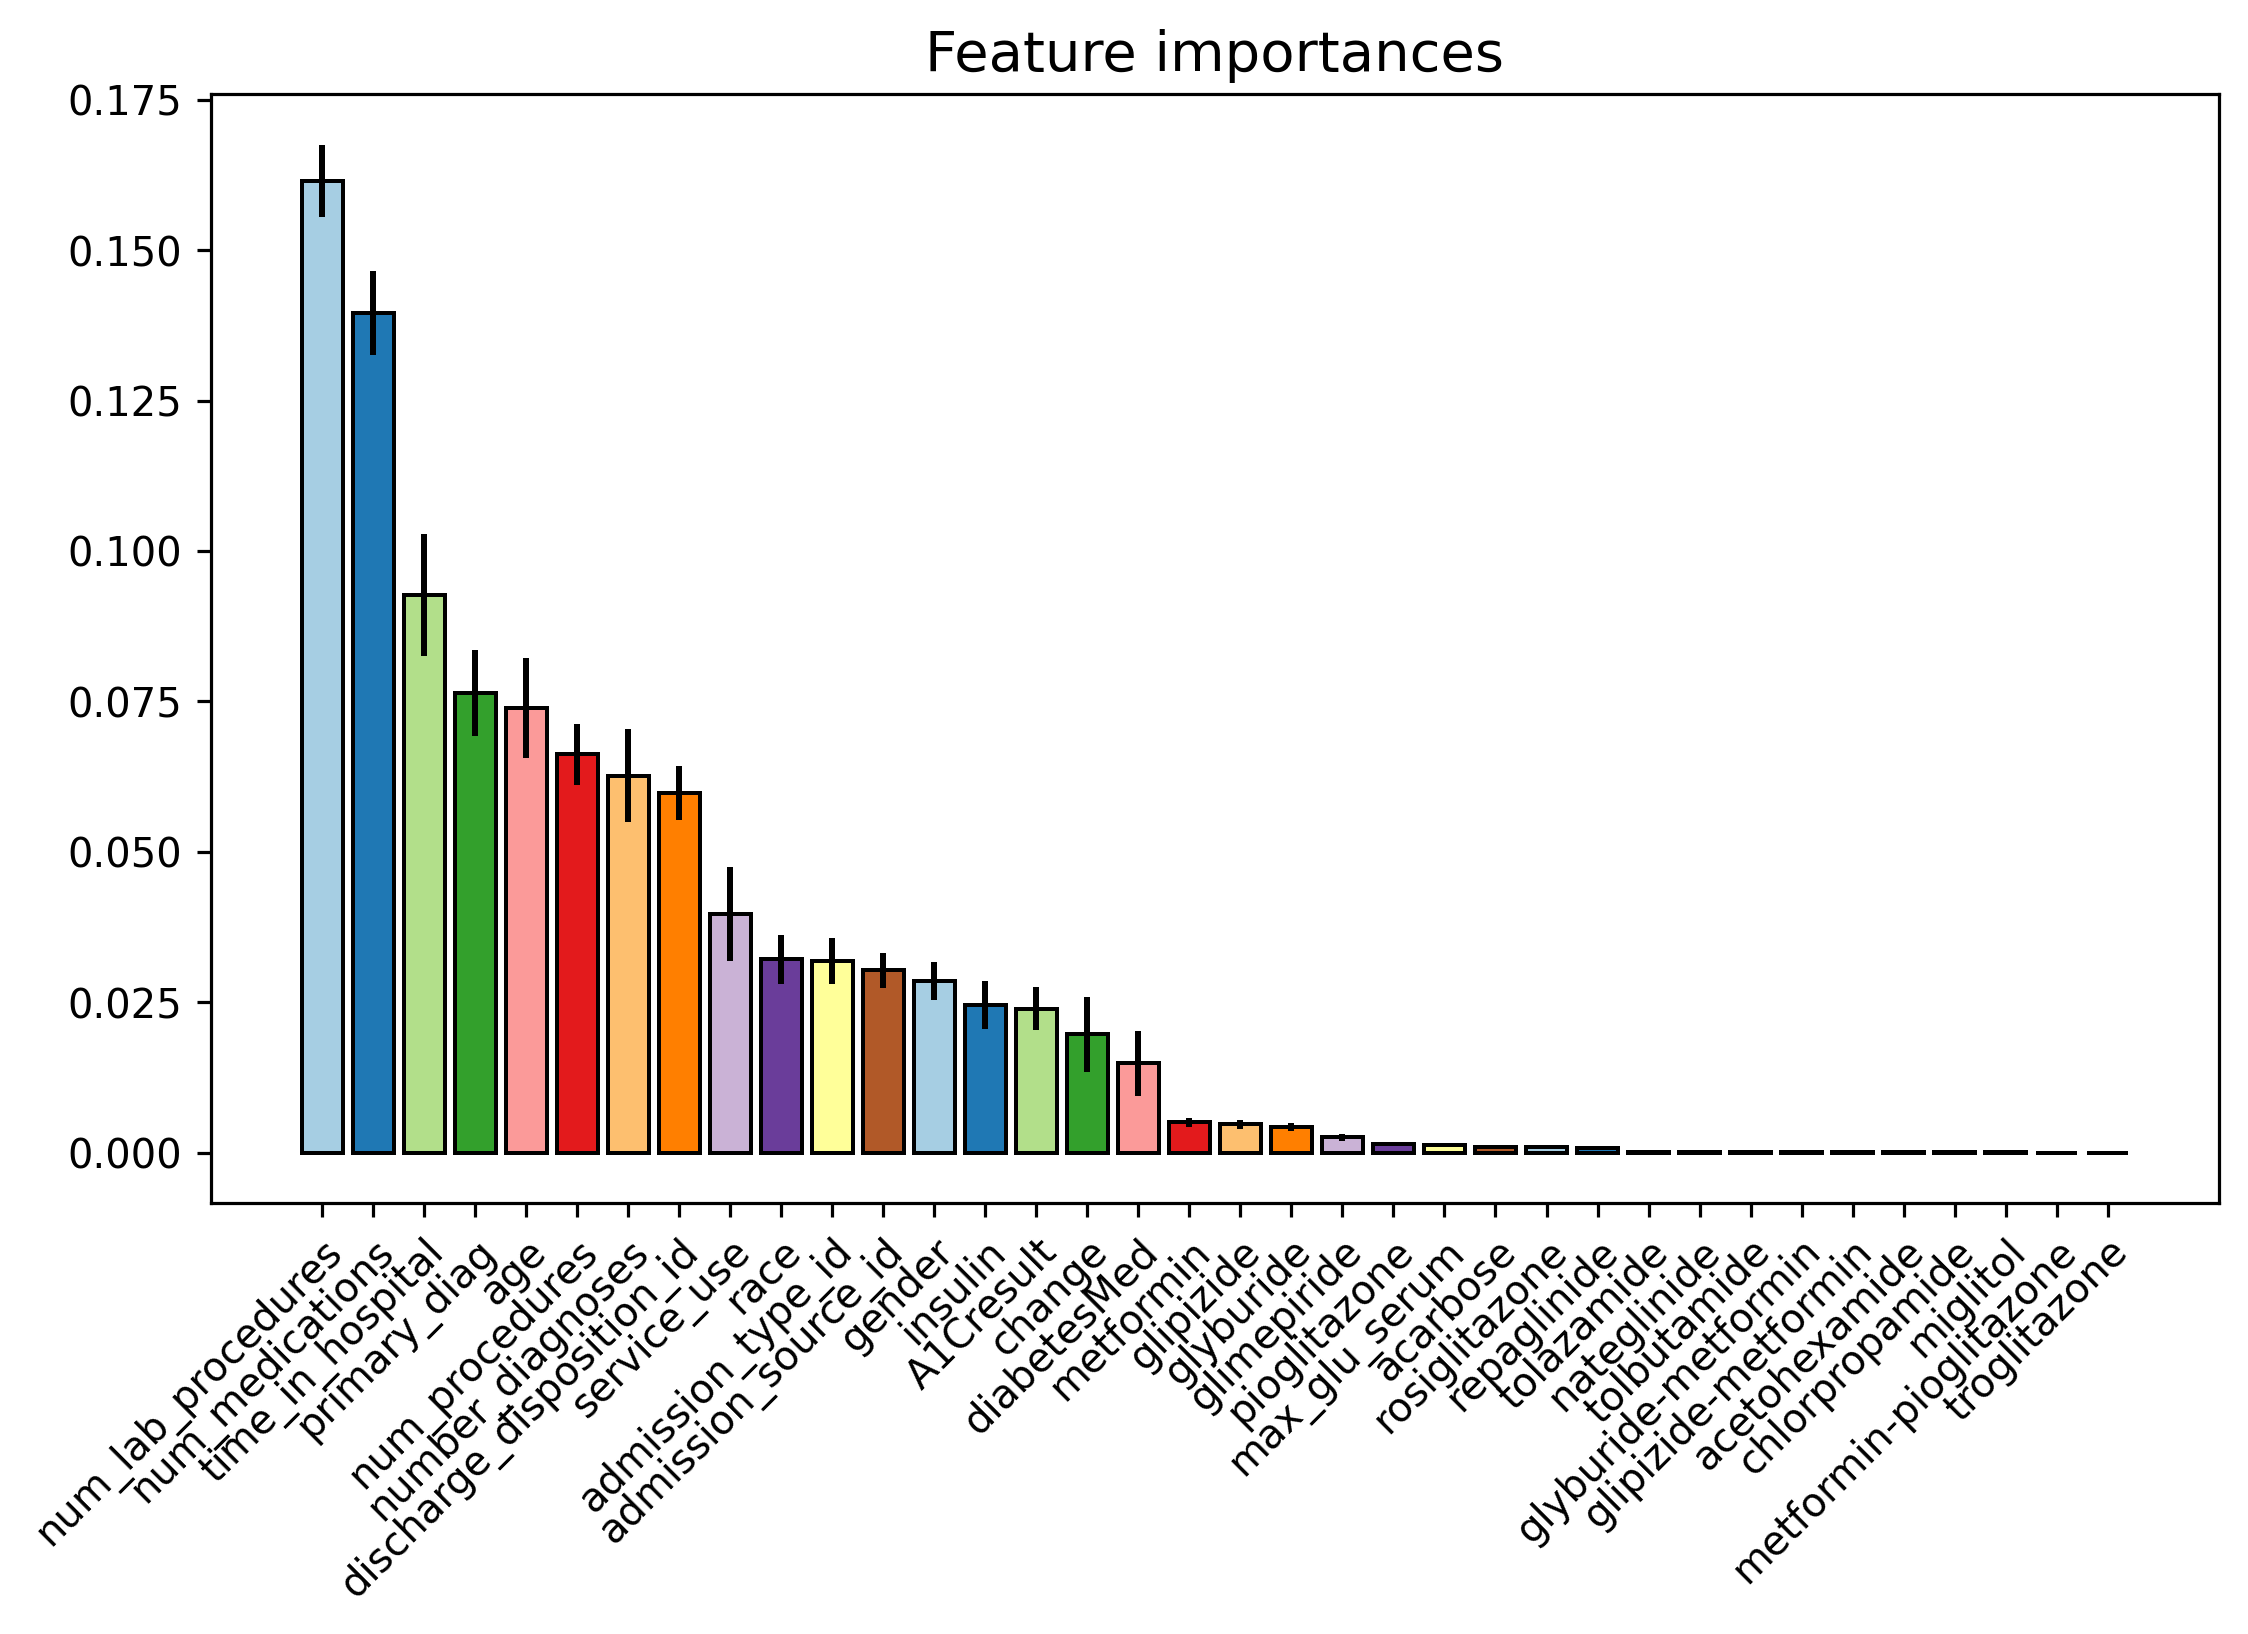
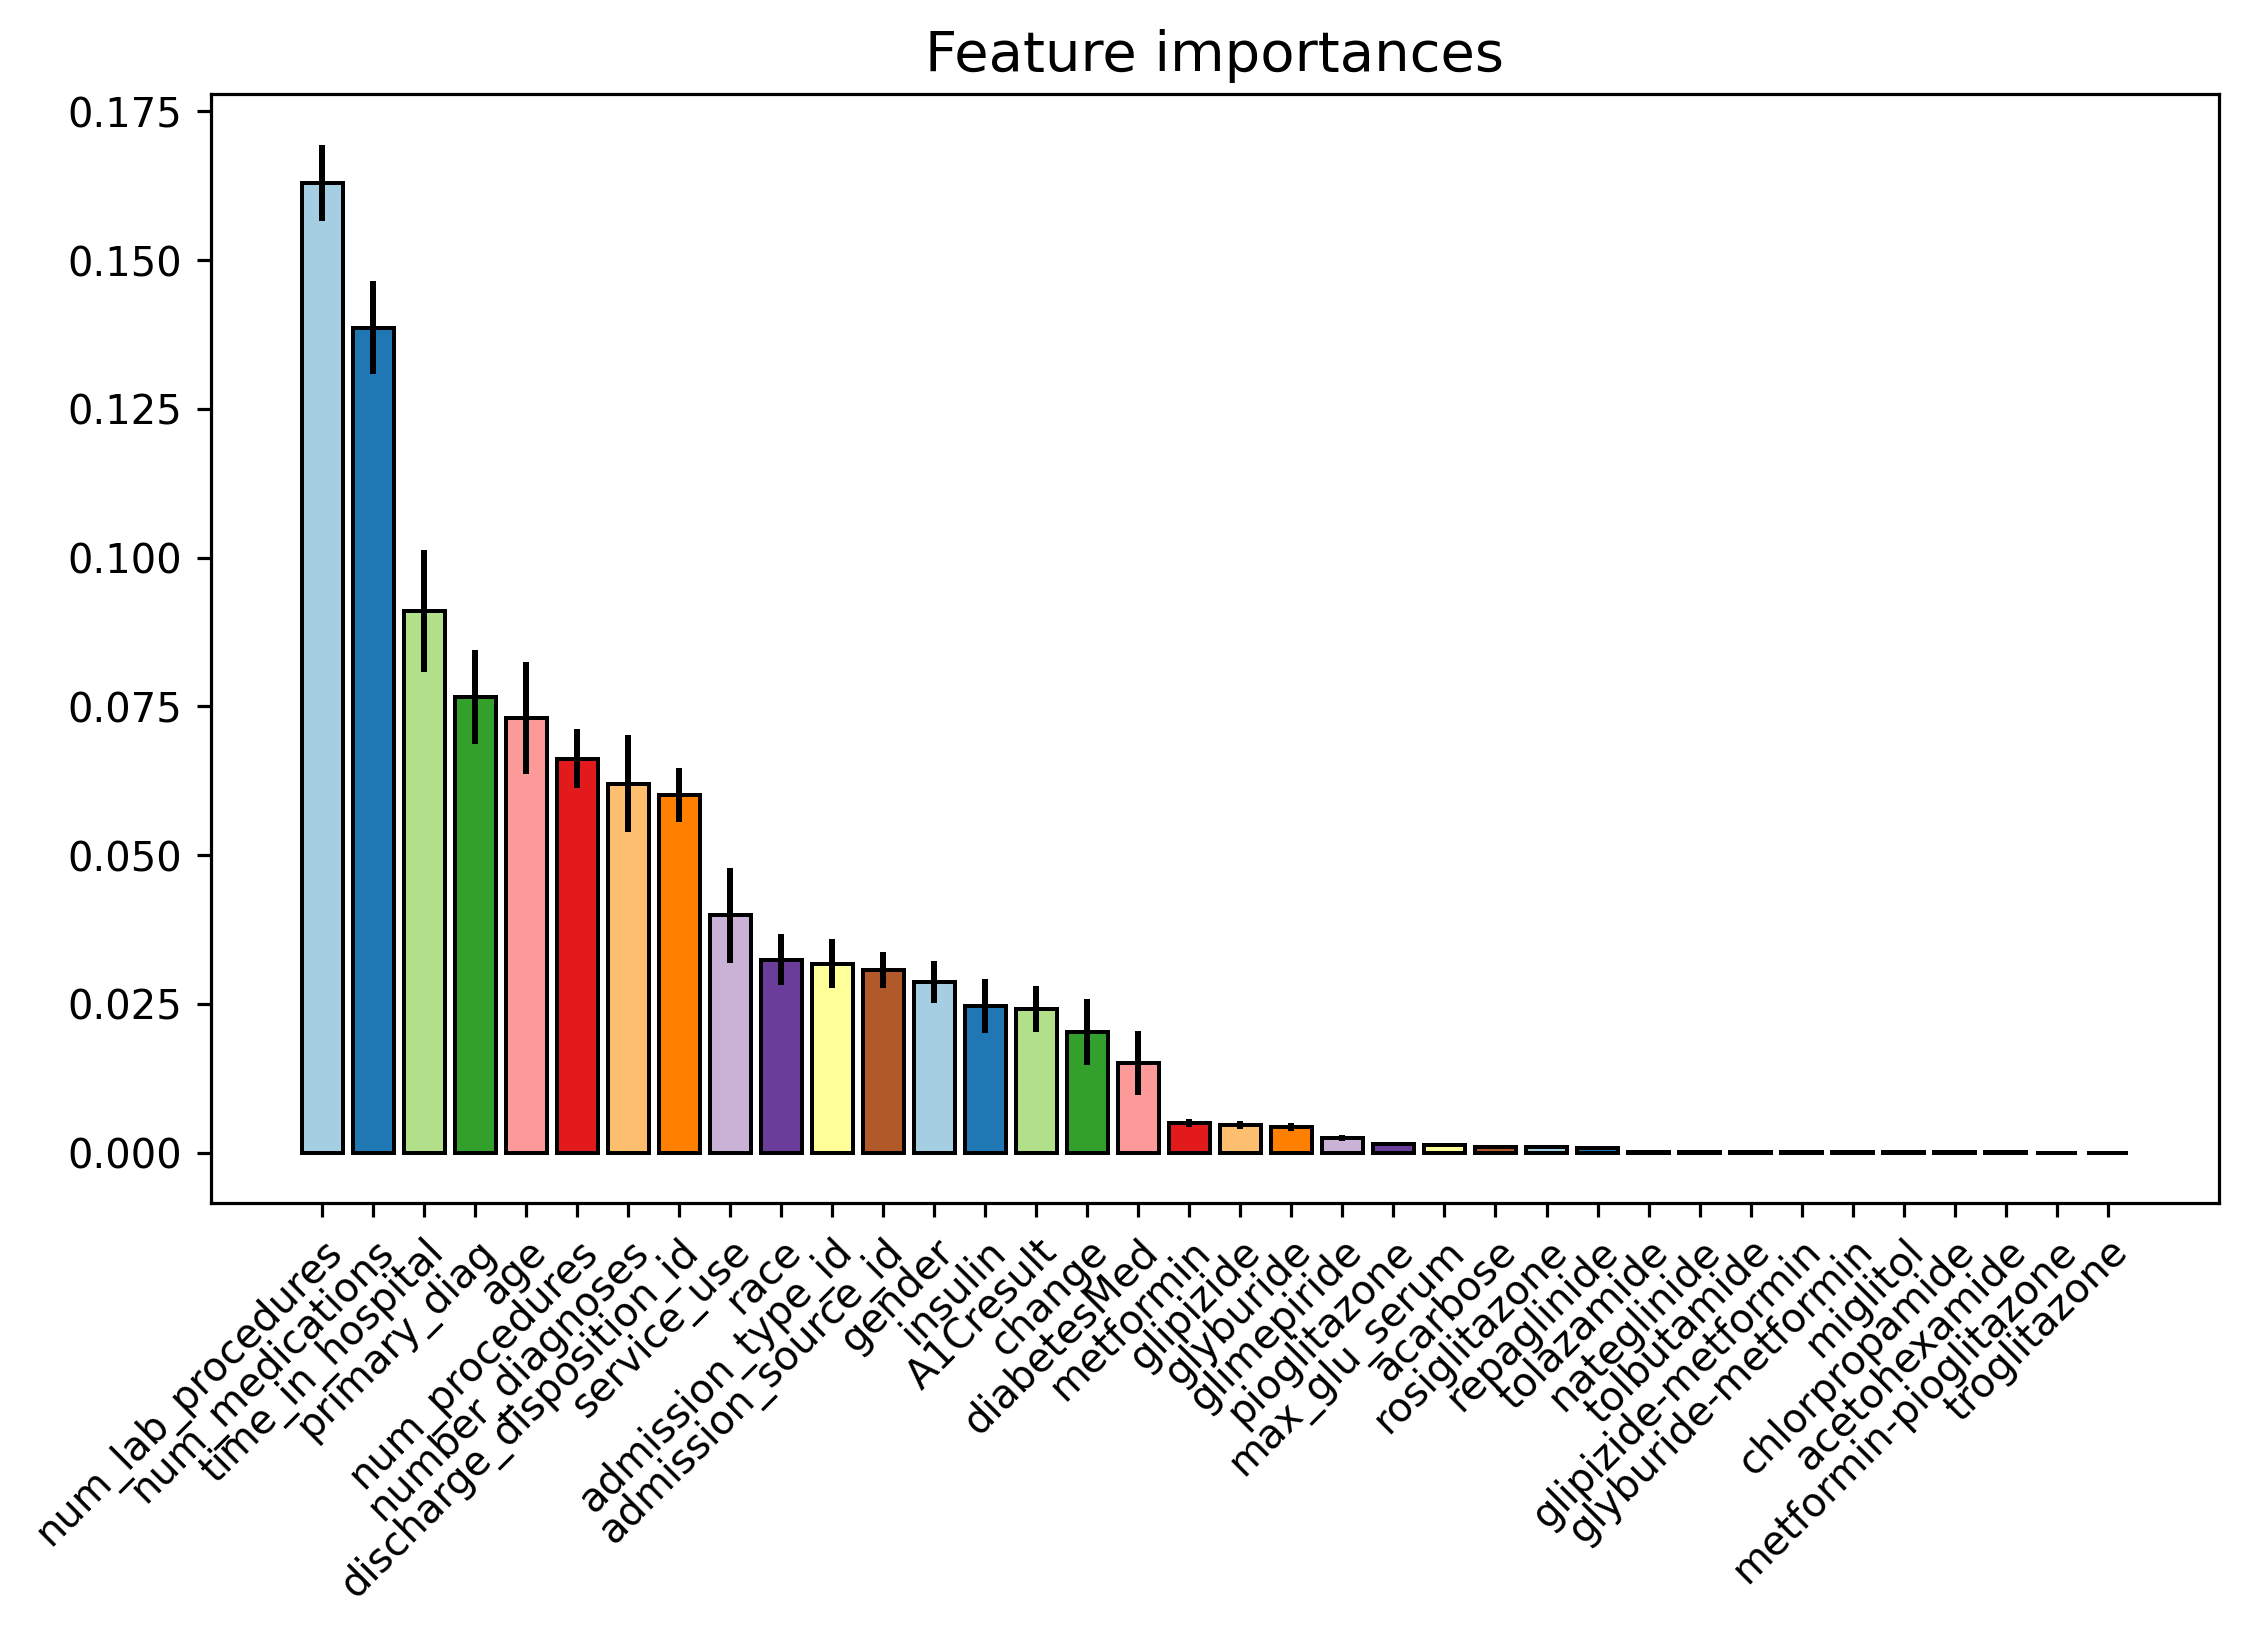
Grid search results: max_depth=40, n_estimators=500, random_state=42

diff --git a/grid_search.py b/grid_search.py
@@ -3,6 +3,7 @@
 import os
 from pathlib import Path
 import pandas as pd
+import numpy as np
 from sklearn.ensemble import RandomForestClassifier
 from sklearn.model_selection import train_test_split, GridSearchCV
 
@@ -14,7 +15,9 @@ X = df.drop('readmitted', axis=1)
 y = df.loc[:, 'readmitted']
 X_train, X_test, y_train, y_test = train_test_split(X, y, test_size=0.3, random_state=42)
 
-param_grid = {'max_depth': range(40, 47, 2), 'n_estimators': range(260, 321, 20)}
+param_grid = {'max_depth': np.arange(20, 81, 20),
+              'n_estimators': np.arange(400, 551, 50),
+              'random_state': [42]}
 
 rf_clf = RandomForestClassifier()
 

diff --git a/modeling.py b/modeling.py
@@ -22,7 +22,8 @@ X_train, X_test, y_train, y_test = train_test_split(X, y, test_size=0.3, random_
 
 model_dict = {'Logistic regression': LogisticRegression(n_jobs=-1, solver='newton-cg'),
               'Decision tree classifier': DecisionTreeClassifier(max_depth=12, random_state=42),
-              'Random forest classifier': RandomForestClassifier(n_jobs=-1, random_state=42)}
+              'Random forest classifier': RandomForestClassifier(n_jobs=-1, random_state=42,
+                                                                 max_depth=40, n_estimators=500)}
 
 t0 = time()
 with open(work_dir / 'stats_output.txt', 'w') as f:

diff --git a/feature_importances_plot.py b/feature_importances_plot.py
@@ -16,7 +16,7 @@ X = df.drop('readmitted', axis=1)
 y = df.loc[:, 'readmitted']
 X_train, X_test, y_train, y_test = train_test_split(X, y, test_size=0.3, random_state=42)
 
-rf_clf = RandomForestClassifier(n_jobs=-1, random_state=42)
+rf_clf = RandomForestClassifier(n_jobs=-1, max_depth=40, n_estimators=500, random_state=42)
 rf_clf.fit(X_train, y_train)
 std_err = np.std([tree.feature_importances_ for tree in rf_clf.estimators_], axis=0)
 
